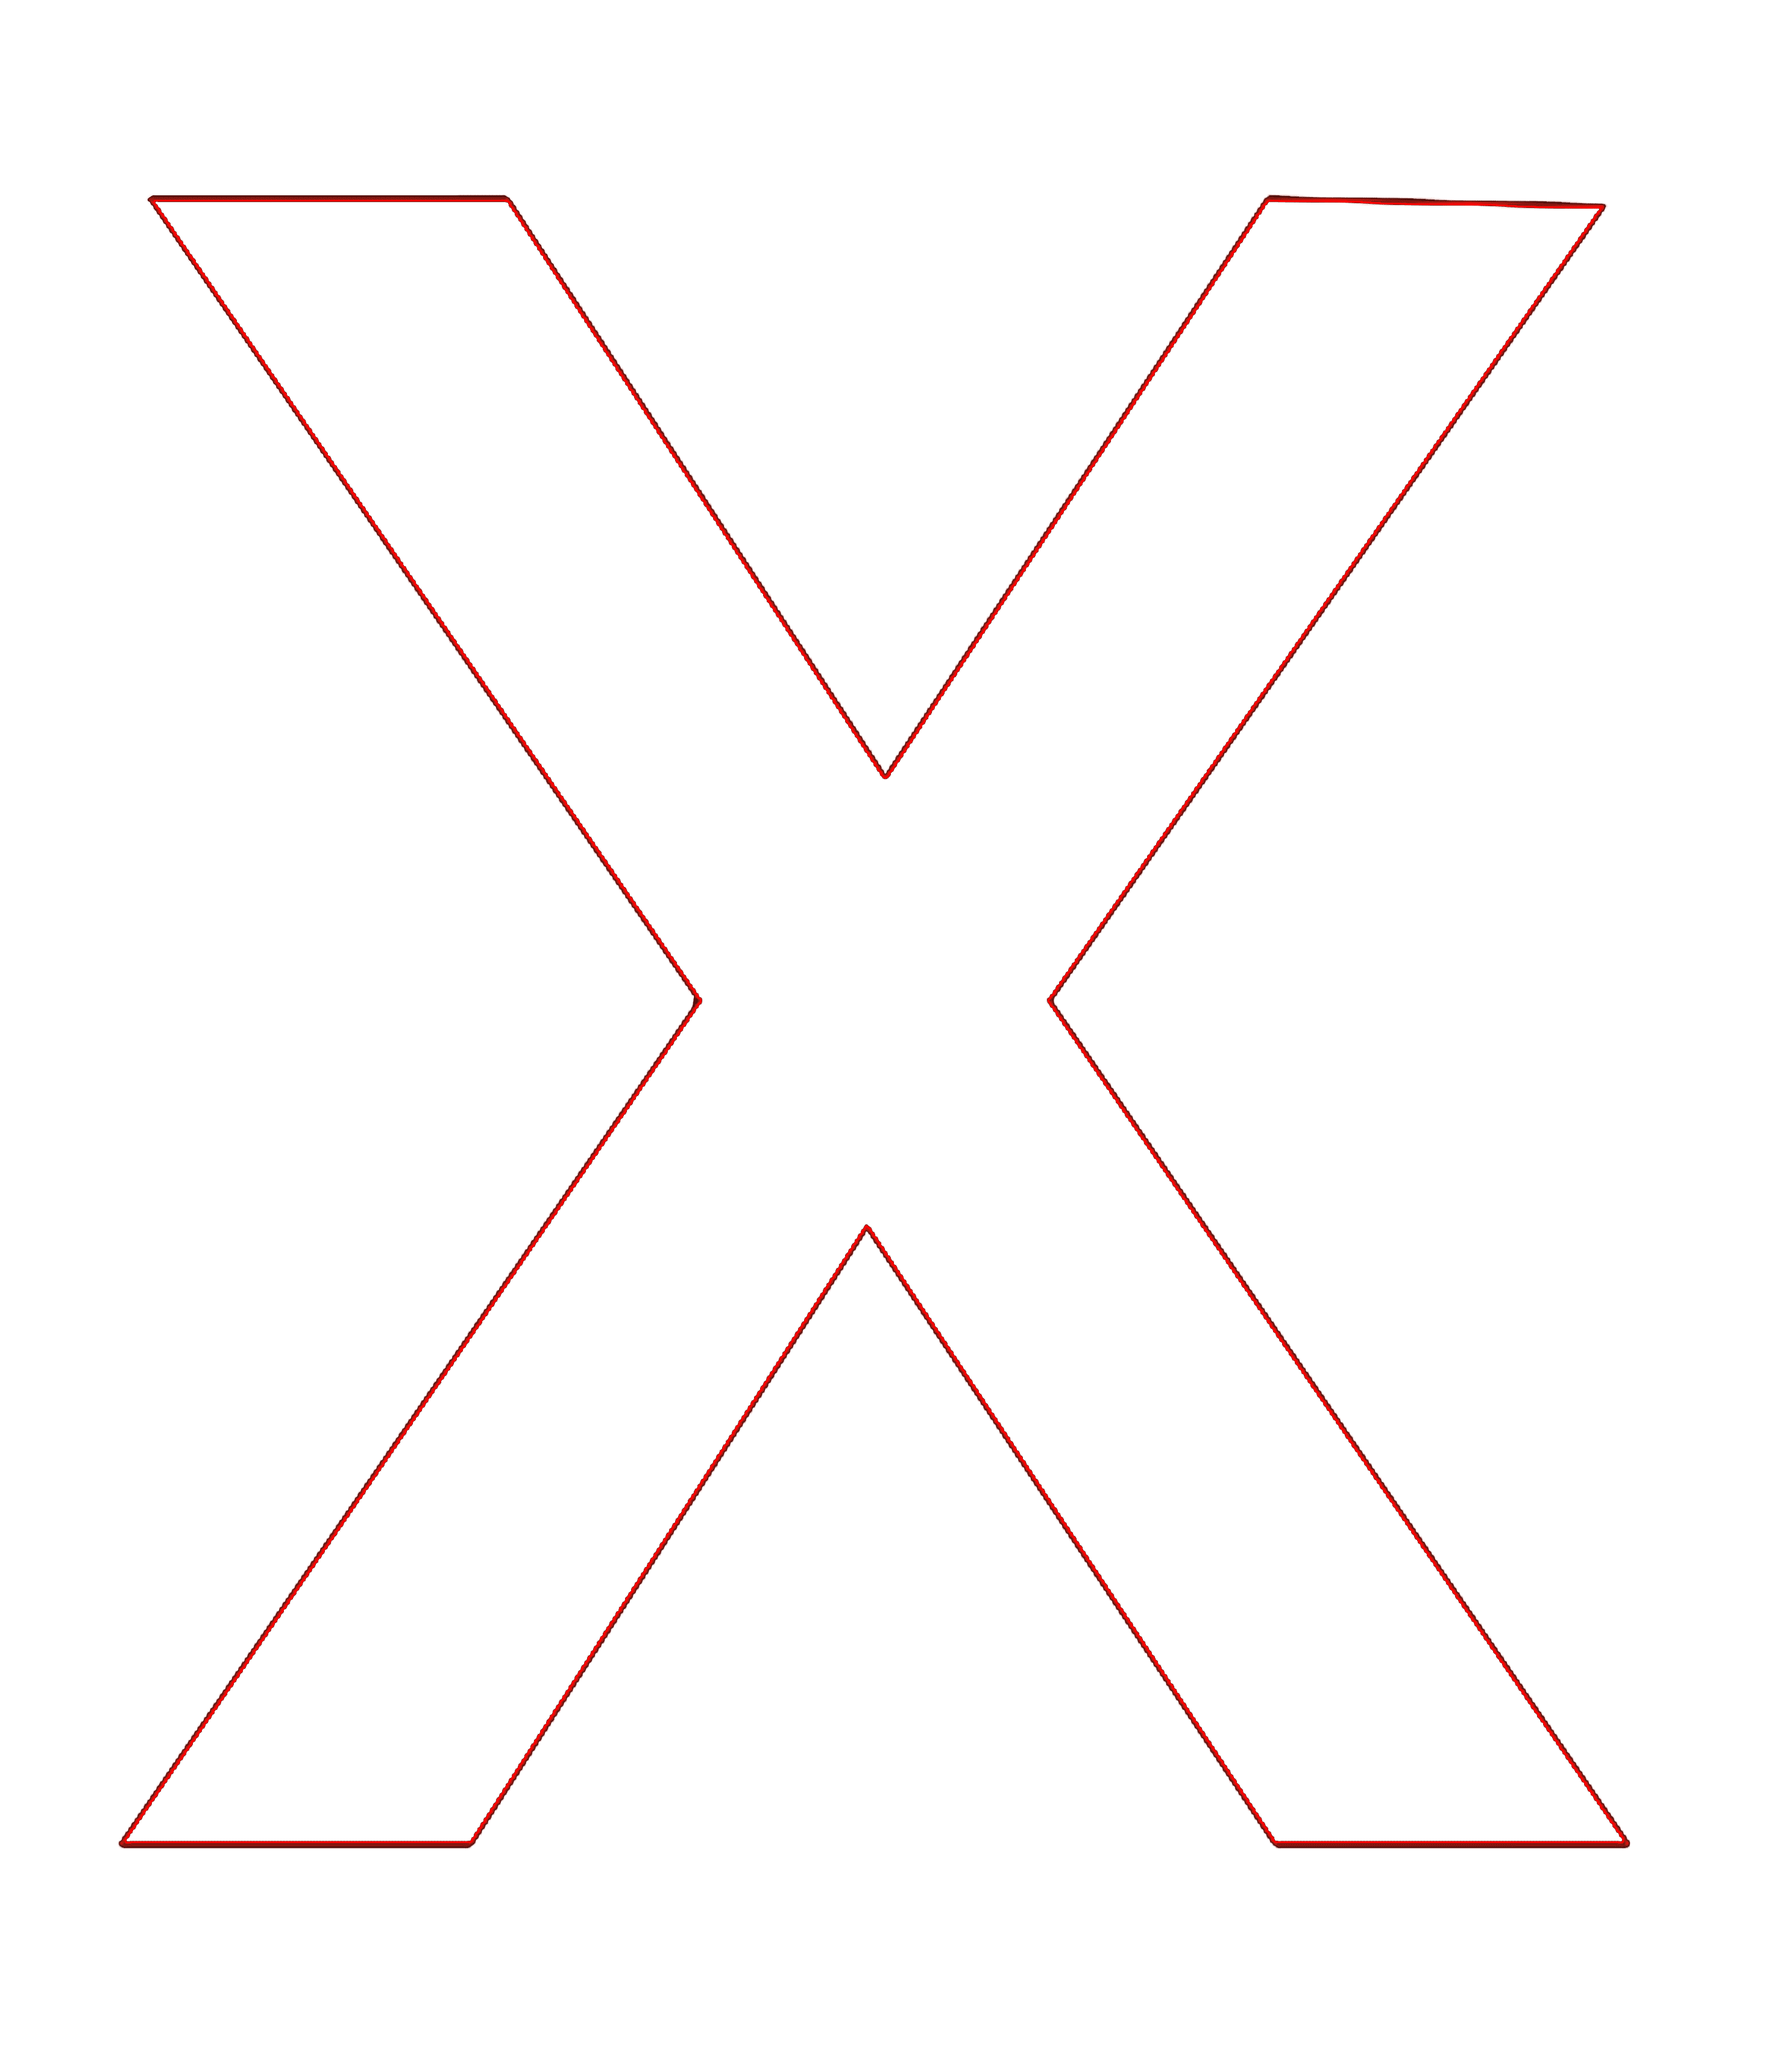
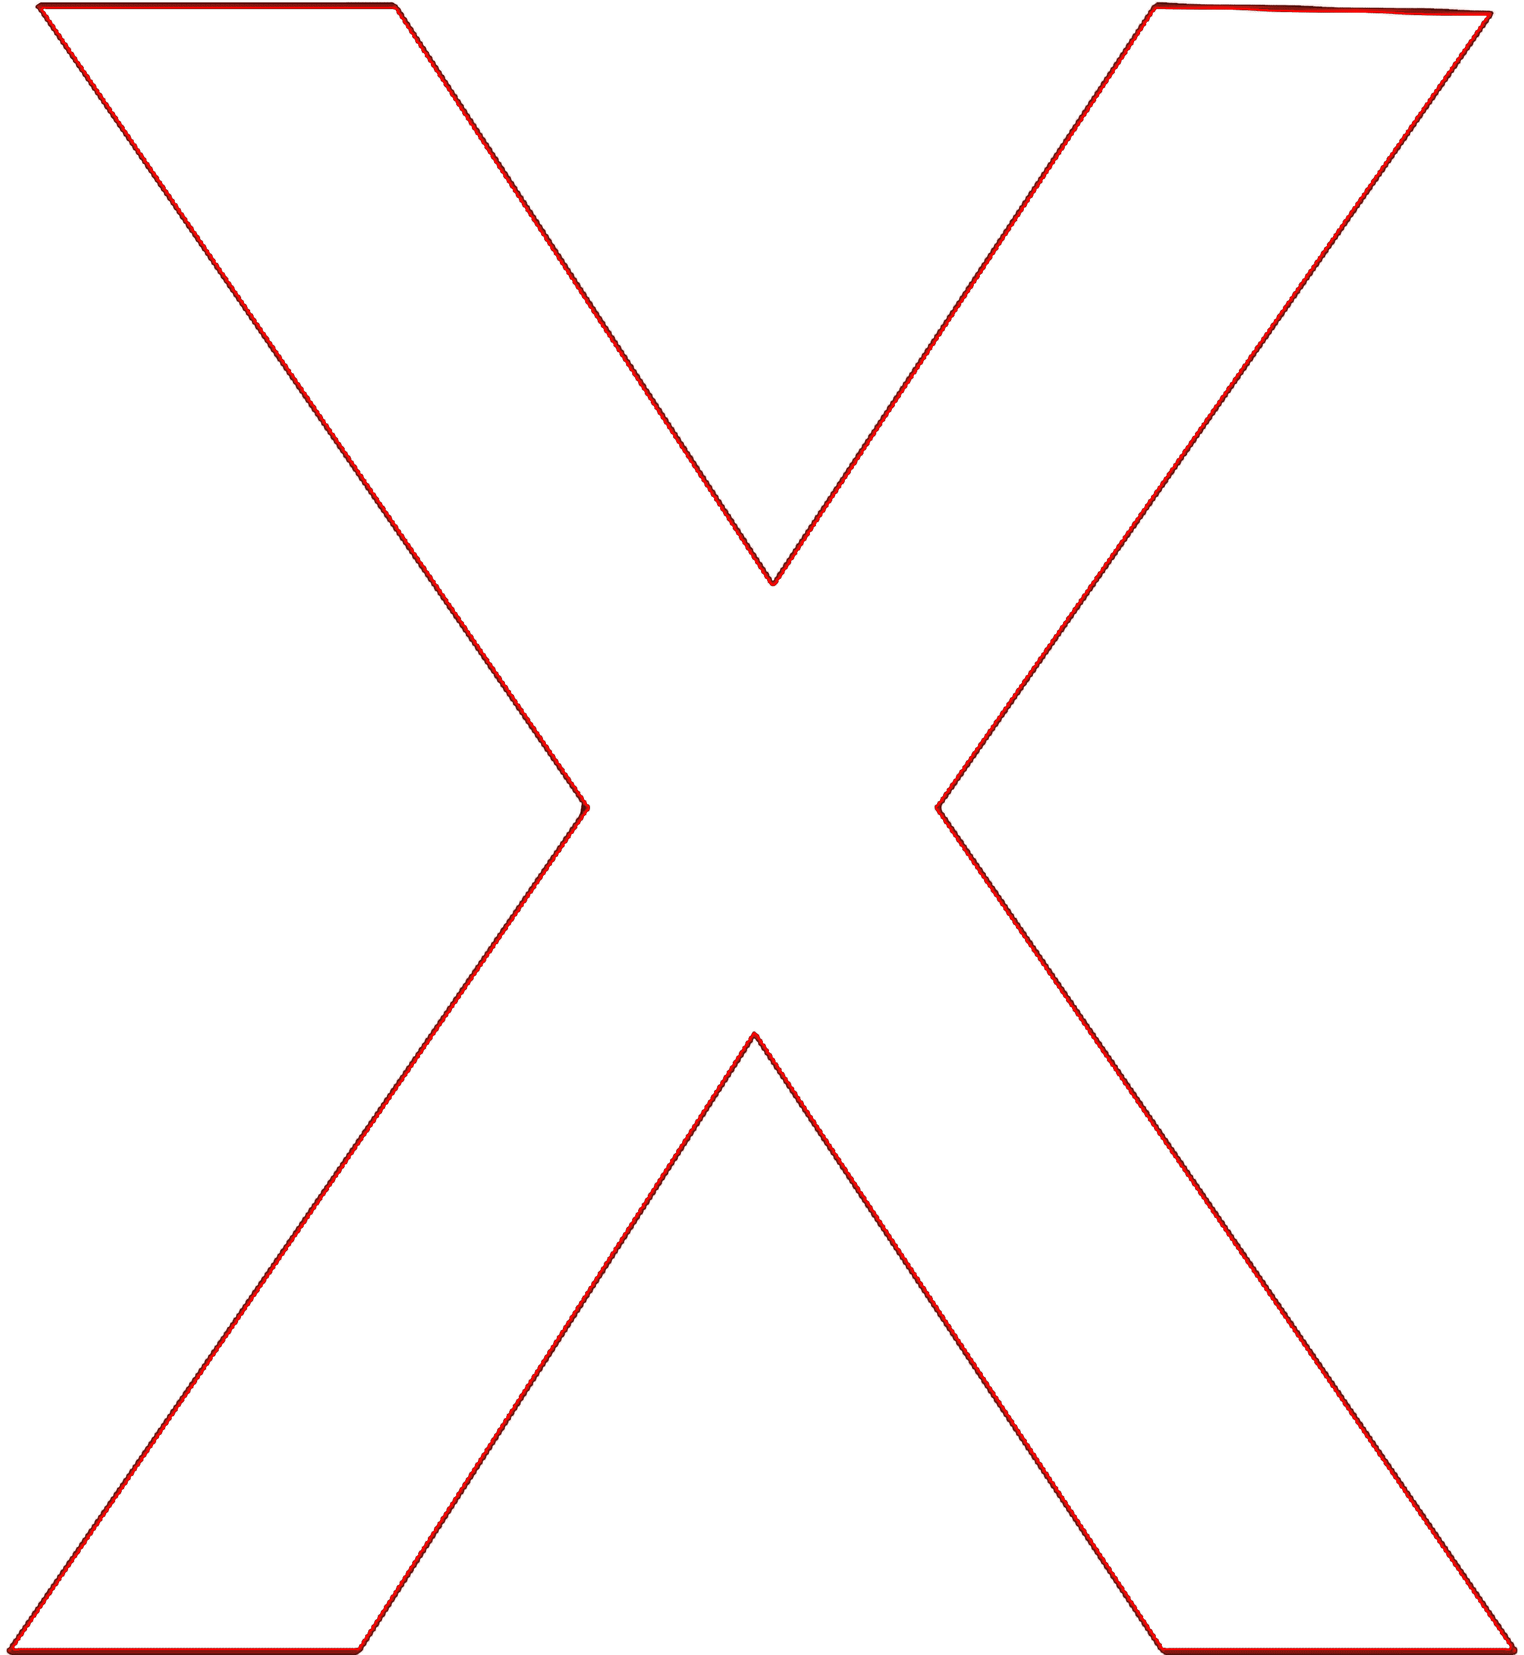
Fixed Speaker,Sponsor Page

diff --git a/speakers.html b/speakers.html
@@ -73,9 +73,9 @@
     </div>
   </nav>
   <div class="container">
-    <div class="row" style="justify-content: space-between; margin-top: 3rem;">
+    <div class="row" style="margin-top: 3rem;">
         <div class="col-lg-3" style="padding: 0px">
-          <div class="row" style="justify-content: space-between; margin: 0px;">
+          <div class="row">
             <div class="speaker-container" onclick="displaySpeaker(1);">
                 <div class="speaker-img-wrapper"><img class="speaker-img" src="assets/images/Speakers/Anshu1.png"></div>
                 <div class="speaker-name">Swapnil Joshi</div>
@@ -85,7 +85,7 @@
               <div class="speaker-name">Swapnil Joshi</div>
             </div>
           </div>
-          <div class="row" style="justify-content: space-between; margin: 0px;">
+          <div class="row">
             <div class="speaker-container" onclick="displaySpeaker(3);">
                 <div class="speaker-img-wrapper"><img class="speaker-img" src="assets/images/Speakers/Davos-1-4.jpg"></div>
                 <div class="speaker-name">Swapnil Joshi</div>
@@ -95,7 +95,7 @@
               <div class="speaker-name">Swapnil Joshi</div>
             </div>
           </div>
-          <div class="row" style="justify-content: space-between; margin: 0px;">
+          <div class="row">
             <div class="speaker-container" onclick="displaySpeaker(5);">
                 <div class="speaker-img-wrapper"><img class="speaker-img" src="assets/images/Speakers/Srushti.png"></div>
                 <div class="speaker-name">Swapnil Joshi</div>
@@ -105,7 +105,7 @@
               <div class="speaker-name">Swapnil Joshi</div>
             </div>
           </div>
-          <div class="row" style="justify-content: space-between; margin: 0px;">
+          <div class="row">
             <div class="speaker-container" onclick="displaySpeaker(7);">
                 <div class="speaker-img-wrapper"><img class="speaker-img" src="assets/images/Speakers/Anshu1.png"></div>
                 <div class="speaker-name">Swapnil Joshi</div>
@@ -116,7 +116,7 @@
             </div>
           </div>
         </div>
-        <img class="Xsymbol" style="height: 55rem; width: auto; top: -2%; left: 17%;" src="assets/images/Index/Xsymbol.png">
+        <img class="Xsymbol" style="height: 90vh; width: auto; top: 10%; left: 17%; max-width: 83vw;" src="assets/images/Index/Xsymbol.png">
         <a href="index.html" class="back-botton">
           <div class="back-symbol"><</div>
           <div class="back-word">BACK</div>
@@ -197,6 +197,7 @@
       </div>
     </div>
   </div>
+  <div class="bottom-shadow"></div>
     <!-- Script Files -->
     <script src="css/bootstrap/js/bootstrap.min.js"></script>
     <script src="js/scripts.js"></script>

diff --git a/css/styles.css b/css/styles.css
@@ -190,16 +190,16 @@ ul {
 }
 
 .speaker-img-wrapper {
-    width: 120px;
-    height: 120px;
+    width: 100px;
+    height: 100px;
     border-radius: 50%;
     border: 1.5px solid white;
     overflow: hidden;
 }
 
 .speaker-img {
-    width: 120px;
-    height: 120px;
+    width: 100%;
+    height: 100%;
 }
 
 .speaker-name {
@@ -212,29 +212,29 @@ ul {
     text-align: center;
     width: fit-content;
     padding: 0 0;
+    cursor: pointer;
 }
 
 .speaker-card-img {
     border-radius: 10px;
     box-shadow: 0 0 10px red;
     width: 200px;
-    height: 200px;
     overflow: hidden;
 }
 
 .speaker-card-img img{
-    width: 200px;
-    height: 200px;
+    width: 100%;
+    height: 100%;
 }
 
 .speaker-card-title{
     display: flex;
-    justify-content: flex-start;
+    justify-content: space-evenly;
     flex-direction: row;
+    flex-wrap: wrap;
 }
 
 .speaker-card-name {
-    margin-left: 40px;
     color: red;
     font-size: 50px;
 }
@@ -622,6 +622,13 @@ ul {
     text-decoration: none;
     height: 2rem;
 }
+
+@media (max-width: 991px) {
+    .back-botton {
+        display: none;
+    }
+}
+
 .back-botton .back-symbol {
     border: 1px solid red;
     border-radius: 50%;
@@ -655,6 +662,7 @@ ul {
     justify-content: space-between;
     text-align: center;
     color: rgba(255, 255, 255, 0.8);
+    cursor: pointer;
 }
 
 .partner img {
@@ -681,7 +689,7 @@ ul {
 }
 
 .partner-card-active {
-    padding: 3rem 5rem;
+    padding: 3rem 12%;
     display: block;
     height: 27rem;
     margin-top: 4rem;
@@ -812,4 +820,17 @@ ul {
     font-size: 0.9rem;
     align-items: center;
     flex-wrap: wrap;
+}
+
+.bottom-shadow {
+    position: fixed;
+    bottom: 0;
+    width: 100vw;
+    height: 5vh;
+    background-image: linear-gradient(rgba(0, 0, 0, 0), rgb(0, 0, 0, 1));
+}
+
+.row {
+    justify-content: space-between;
+    margin: 0px;
 }

diff --git a/sponsors.html b/sponsors.html
@@ -72,7 +72,7 @@
     </div>
   </nav>
   <div class="container">
-    <div class="row" style="justify-content: space-between; margin-top: 3rem;">
+    <div class="row" style="margin-top: 3rem;">
         <div class="col-lg-4">
           <div class="partner-box">
             <div class="partner" onclick="displayPartner(1);">
@@ -149,7 +149,7 @@
             </div>
           </div>
         </div>
-        <img class="Xsymbol" style="height: 50rem; width: auto; top: -2%; left: 10%;" src="assets/images/Index/Xsymbol.png">
+        <img class="Xsymbol" style="height: 90vh; width: auto; top: 10%; left: 17%; max-width: 83vw;" src="assets/images/Index/Xsymbol.png">
         <a href="index.html" class="back-botton" style="left: auto;">
           <div class="back-symbol"><</div>
           <div class="back-word">BACK</div>
@@ -212,6 +212,7 @@
       </div>
     </div>
   </div>
+  <div class="bottom-shadow"></div>
     <!-- Script Files -->
     <script src="css/bootstrap/js/bootstrap.min.js"></script>
     <script src="js/scripts.js"></script>

diff --git a/index.html b/index.html
@@ -73,7 +73,7 @@
     </div>
   </nav>
   <div class="container">
-    <div class="row" style="justify-content: space-between;">
+    <div class="row">
         <div class="col-lg-4" style="padding-left: 0px;">
           <div class="info">
             <div style="line-height: 1.1;">
@@ -89,7 +89,7 @@
           </div>
           <img class="Xsymbol" src="assets/images/Index/Xsymbol.png">
         </div>
-        <div class="col-lg-6">
+        <div class="col-lg-6" style="padding: 0px;">
           <div class="prarambh">
           <div class="container" style="top: 20%;left: 9%;">
             <div class="wrapper" style="animation-delay: 0s;">

diff --git a/team.html b/team.html
@@ -73,7 +73,7 @@
     </div>
   </nav>
   <div class="container">
-    <div class="row" style="justify-content: space-between;">
+    <div class="row">
         <div class="col-lg-2" style="padding-left: 0px;">
           <div class="team-box">
             <div class="team">
